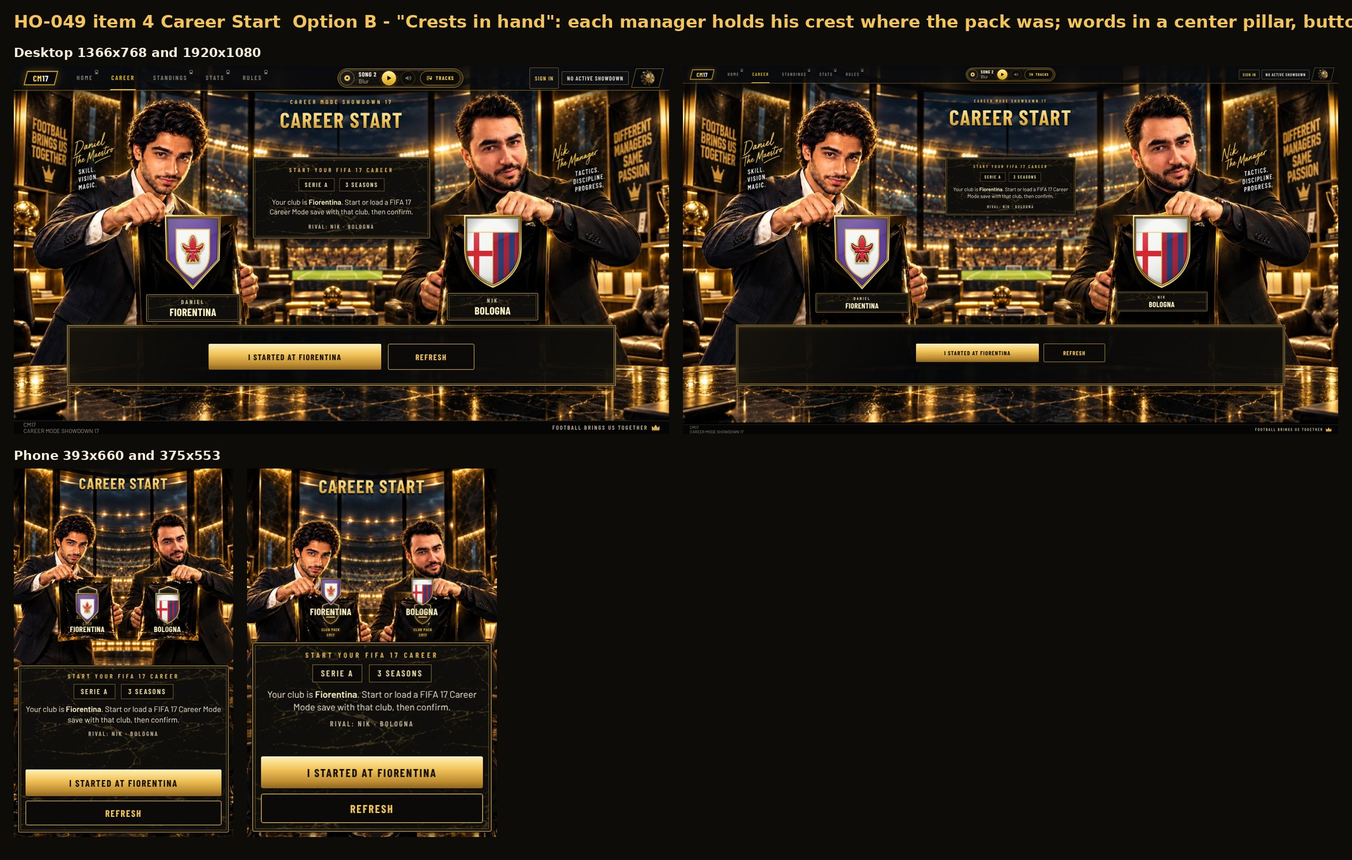
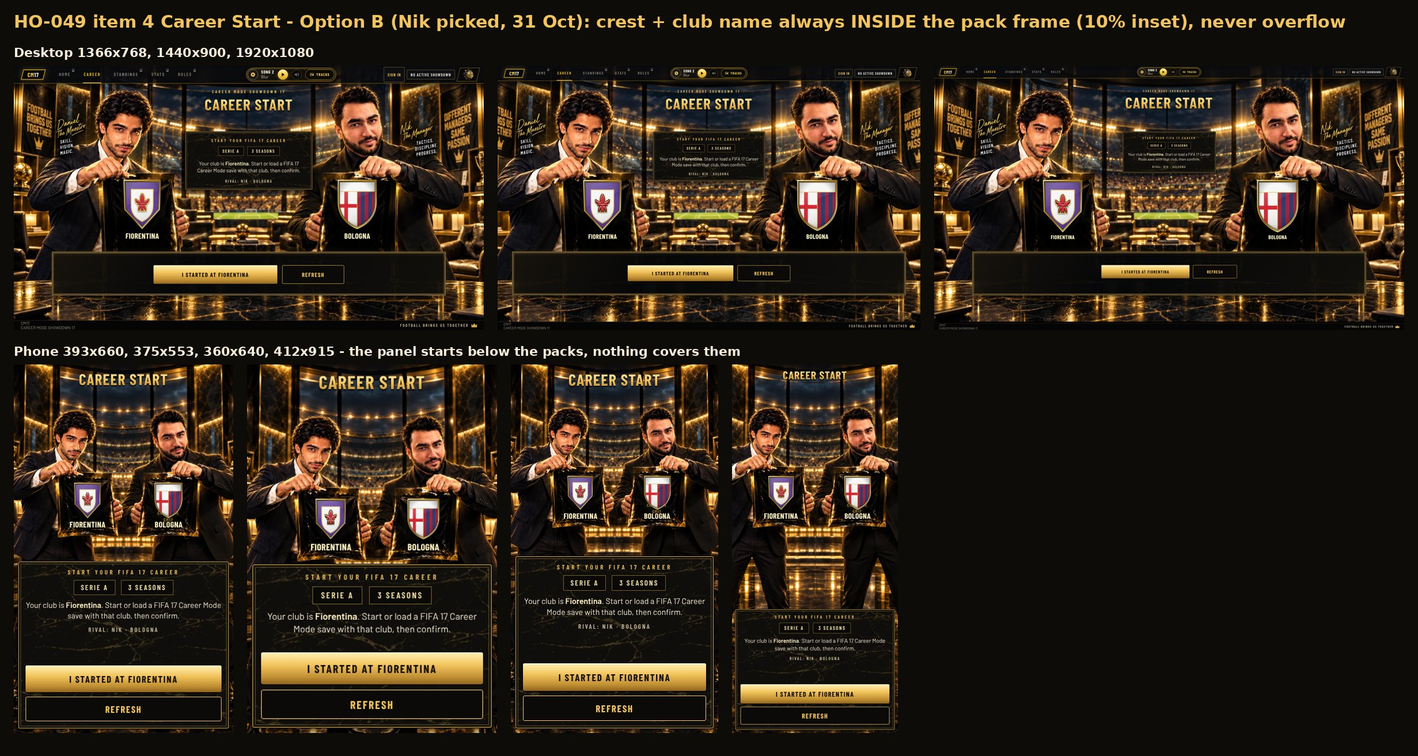
HO-049: Career Start option B (Nik's pick) with crest-in-frame rule, spec + mock
Claude-Session: https://claude.ai/code/session_01GU43Q6GqM81aZhHR5zx2Ep

diff --git a/project-documents/leads-relay/attachments/HO-049/career_start_B_mock.js b/project-documents/leads-relay/attachments/HO-049/career_start_B_mock.js
@@ -1,0 +1,85 @@
+(async()=>{
+const OPT=window.__OPT, phone=innerWidth<=900;
+const h=document.getElementById("clubWheelScreen");
+const crest=n=>getClubCrestSvg(n);
+const st=document.createElement("style");
+st.textContent=`
+#clubWheelScreen > :not(.stage):not(.csx):not(.cl-footer):not(.phoneHeroStage):not(.clPhoneScene){visibility:hidden!important}
+#clubWheelScreen .clubAnticipationDim{display:none!important}
+#clubWheelScreen .phoneHeroStage .clubPackStage{visibility:hidden!important}
+.csx{position:absolute;inset:0;z-index:30;font-family:"Barlow Condensed","Oswald",sans-serif;color:#f6eedb;pointer-events:none}
+.csx *{box-sizing:border-box}
+.csx .mar{background:#0b0a08 url("css/r78-marble-tile.webp") 0 0/256px 256px repeat;border:1px solid rgba(242,196,91,.8);border-radius:3px;box-shadow:inset 0 0 0 3px rgba(17,15,12,.9),inset 0 0 0 4px rgba(242,196,91,.3),0 0 0 1px #000,0 10px 24px rgba(0,0,0,.55)}
+.csx .kick{font:600 12px/1 "Barlow Condensed",sans-serif;letter-spacing:.34em;color:#f2c45b;text-transform:uppercase}
+.csx .ttl{font:800 30px/1.05 "Barlow Condensed",sans-serif;letter-spacing:.04em;text-transform:uppercase;background:linear-gradient(#fff1b8,#f2c45b 55%,#b98a2f);-webkit-background-clip:text;color:transparent;filter:drop-shadow(0 2px 1px #000)}
+.csx .who{font:700 12px/1 "Barlow Condensed";letter-spacing:.26em;color:#c9bc9c;text-transform:uppercase}
+.csx .club{font:800 26px/1.05 "Barlow Condensed";letter-spacing:.02em;color:#fff3c4;text-transform:uppercase}
+.csx .num{display:inline-grid;place-items:center;width:22px;height:22px;margin-right:8px;background:#f2c45b;color:#140e04;font:800 13px/1 "Barlow Condensed";vertical-align:2px}
+.csx .meta{display:flex;gap:10px;justify-content:center;flex-wrap:wrap}
+.csx .meta span{padding:6px 12px;border:1px solid rgba(242,196,91,.45);font:600 13px/1 "Barlow Condensed";letter-spacing:.16em;text-transform:uppercase;color:#f6e3a8;background:rgba(0,0,0,.35)}
+.csx .note{font:500 15px/1.35 "Barlow",sans-serif;color:#efe6cf;text-align:center}
+.csx .btn{display:flex;align-items:center;justify-content:center;min-height:48px;padding:0 22px;font:800 17px/1 "Barlow Condensed";letter-spacing:.1em;text-transform:uppercase;border-radius:3px}
+.csx .gold{color:#140e04;background:linear-gradient(180deg,#fff1b8 0%,#f2c45b 40%,#c08f33 78%,#8f6420 100%);box-shadow:inset 0 1px 0 rgba(255,255,255,.7),0 0 0 1px #000}
+.csx .line{color:#f2c45b;border:1px solid #f2c45b;background:#0b0a08}
+.csx .cr svg{width:100%;height:100%;display:block;filter:drop-shadow(0 4px 6px rgba(0,0,0,.7))}
+`;
+document.head.appendChild(st);
+const L={club:"Fiorentina",who:"Daniel"},R={club:"Bologna",who:"Nik"};
+const card=(m,n,side,size)=>`<div class="mar" style="display:flex;align-items:center;gap:14px;padding:12px 16px;${side==="r"?"flex-direction:row-reverse;text-align:right":""}"><div class="cr" style="width:${size}px;height:${size}px;flex:none">${crest(m.club)}</div><div><div class="who"><span class="num">0${n}</span>${m.who}</div><div class="club" style="margin-top:6px">${m.club}</div></div></div>`;
+const fitIn=(f,m)=>{const ix=f.w*.1,iy=f.h*.1,iw=f.w-2*ix,ih=f.h-2*iy,lab=Math.max(11,Math.min(22,ih*.16)),cs=Math.floor(Math.min(iw,ih-lab*1.5));
+ return `<div class="fit" data-f="${[f.x,f.y,f.w,f.h].map(Math.round)}" style="position:absolute;left:${f.x+ix}px;top:${f.y+iy}px;width:${iw}px;height:${ih}px;display:flex;flex-direction:column;align-items:center;justify-content:center;gap:${lab*.2}px;overflow:hidden"><div class="cr" style="width:${cs}px;height:${cs}px;flex:none">${crest(m.club)}</div><div class="club" style="font-size:${lab}px;line-height:1.1;text-shadow:0 1px 2px #000,0 0 6px #000;white-space:nowrap">${m.club}</div></div>`;};
+const x=document.createElement("div"); x.className="csx";
+const W=innerWidth,H=innerHeight;
+if(OPT==="A"&&!phone){
+ // A: one wide marble stage across the bottom, the faces and the wordmark area stay clear above it
+ x.innerHTML=`<div style="position:absolute;left:50%;top:9%;transform:translateX(-50%);text-align:center"><div class="kick">Career Mode Showdown 17</div><div class="ttl" style="font-size:${Math.round(H*.058)}px;margin-top:8px">Career Start</div></div>
+ <div class="mar" style="position:absolute;left:5.5%;right:5.5%;bottom:5.2%;padding:16px 20px 18px;display:grid;grid-template-columns:1fr 1.25fr 1fr;gap:18px;align-items:center">
+  ${card(L,1,"l",Math.round(H*.105))}
+  <div style="text-align:center"><div class="kick">Start your FIFA 17 career</div><div class="note" style="margin:8px 0 10px">Start or load a FIFA 17 Career Mode save with <b style="color:#fff3c4">Fiorentina</b>, then confirm.</div><div class="meta"><span>Serie A</span><span>3 Seasons</span></div></div>
+  ${card(R,2,"r",Math.round(H*.105))}
+  <div style="grid-column:1/-1;display:flex;gap:14px;justify-content:center"><div class="btn gold" style="min-width:330px">I started at Fiorentina</div><div class="btn line" style="min-width:170px">Refresh</div></div>
+ </div>`;
+}
+if(OPT==="B"&&!phone){
+ // B: each manager holds his club crest where the pack was; a narrow marble pillar between them holds the words and buttons
+ const pk=[...h.querySelectorAll(".clubPackStage")].map(e=>e.getBoundingClientRect());
+ const hold=(r,m)=>fitIn({x:r.x,y:r.y,w:r.width,h:r.height},m);
+ x.innerHTML=`<div style="position:absolute;left:50%;top:9%;transform:translateX(-50%);text-align:center;white-space:nowrap"><div class="kick">Career Mode Showdown 17</div><div class="ttl" style="font-size:${Math.round(H*.058)}px;margin-top:8px">Career Start</div></div>
+ ${hold(pk[0],L)}${hold(pk[1],R)}
+ <div class="mar" style="position:absolute;left:50%;transform:translateX(-50%);top:25%;width:${Math.min(380,W*.27)}px;padding:18px 18px 18px;text-align:center">
+  <div class="kick">Start your FIFA 17 career</div>
+  <div class="meta" style="margin:12px 0"><span>Serie A</span><span>3 Seasons</span></div>
+  <div class="note">Your club is <b style="color:#fff3c4">Fiorentina</b>. Start or load a FIFA 17 Career Mode save with that club, then confirm.</div>
+  <div class="kick" style="margin-top:14px;color:#c9bc9c;letter-spacing:.2em">Rival: Nik · Bologna</div>
+ </div>
+ <div style="position:absolute;left:0;right:0;top:${Math.round(H*.755)}px;display:flex;gap:14px;justify-content:center"><div class="btn gold" style="min-width:360px;min-height:54px">I started at Fiorentina</div><div class="btn line" style="min-width:180px;min-height:54px">Refresh</div></div>`;
+}
+if(phone){
+ const sc=h.querySelector(".clPhoneScene").getBoundingClientRect(), packBottom=h.getBoundingClientRect().top+924*Math.max(W,H*1179/2096)/1179, top=Math.round(OPT==="B"?Math.max(sc.bottom+4,packBottom+6):sc.bottom+4), short=H-top<290;
+ st.textContent+=`#clubWheelScreen > .clPhoneScene{visibility:visible!important}`+(OPT==="B"?`#clubWheelScreen .clPhoneScene::before,#clubWheelScreen .clPhoneScene *{display:none!important}`:``);
+ const btns=`<div style="margin-top:auto;display:grid;gap:8px"><div class="btn gold">I started at Fiorentina</div><div class="btn line" style="min-height:44px">Refresh</div></div>`;
+ if(OPT==="A"){
+  x.innerHTML=`<div style="position:absolute;left:0;right:0;top:${sc.top+12}px;text-align:center"><div class="ttl" style="font-size:28px">Career Start</div></div><div class="mar" style="position:absolute;left:8px;right:8px;top:${top}px;bottom:8px;padding:10px;display:flex;flex-direction:column;gap:8px">
+   <div style="display:grid;grid-template-columns:1fr 1fr;gap:8px">
+    ${[L,R].map((m,i)=>`<div class="mar" style="padding:8px 6px;display:flex;align-items:center;gap:8px"><div class="cr" style="width:40px;height:40px;flex:none">${crest(m.club)}</div><div><div class="who" style="font-size:10px"><span class="num" style="width:16px;height:16px;margin-right:4px;font-size:11px">0${i+1}</span>${m.who}</div><div class="club" style="font-size:17px;margin-top:3px">${m.club}</div></div></div>`).join("")}
+   </div>
+   <div style="text-align:center"><div class="kick" style="font-size:11px">Start your FIFA 17 career</div></div>
+   <div class="meta"><span>Serie A</span><span>3 Seasons</span></div>
+   <div class="note" style="font-size:14px">Start or load a FIFA 17 Career Mode save with <b style="color:#fff3c4">Fiorentina</b>, then confirm.</div>
+   ${btns}</div>`;
+ } else {
+  const bgW=Math.max(W,H*1179/2096),k=bgW/1179,ox=(W-bgW)/2,hr=h.getBoundingClientRect();const fr=(x0,x1)=>({x:ox+x0*k,y:hr.top+584*k,w:(x1-x0)*k,h:340*k});const hold=(f,m)=>fitIn(f,m);
+  x.innerHTML=`<div style="position:absolute;left:0;right:0;top:${sc.top+12}px;text-align:center"><div class="ttl" style="font-size:28px">Career Start</div></div>${hold(fr(236,556),L)}${hold(fr(668,996),R)}
+   <div class="mar" style="position:absolute;left:8px;right:8px;top:${top}px;bottom:8px;padding:12px;display:flex;flex-direction:column;gap:9px;text-align:center">
+   <div class="kick" style="font-size:11px">Start your FIFA 17 career</div>
+   <div class="meta"><span>Serie A</span><span>3 Seasons</span></div>
+   <div class="note" style="font-size:14px">Your club is <b style="color:#fff3c4">Fiorentina</b>. Start or load a FIFA 17 Career Mode save with that club, then confirm.</div>
+   ${short?"":`<div class="kick" style="color:#c9bc9c;letter-spacing:.2em;font-size:11px">Rival: Nik · Bologna</div>`}
+   ${btns}</div>`;
+ }
+}
+if(OPT==="B"&&!phone)h.querySelectorAll(".world svg polygon,.world svg polyline").forEach(e=>e.style.display="none");
+h.appendChild(x);
+await new Promise(r=>setTimeout(r,300));
+return [OPT,phone,W,H,Math.round(document.querySelector(".csx .mar:last-of-type")?.getBoundingClientRect().bottom||0),[...x.querySelectorAll(".fit")].map(e=>{const f=e.dataset.f.split(",").map(Number),c=e.querySelector(".cr").getBoundingClientRect(),t=e.querySelector(".club").getBoundingClientRect();const inside=r=>r.left>=f[0]-.5&&r.right<=f[0]+f[2]+.5&&r.top>=f[1]-.5&&r.bottom<=f[1]+f[3]+.5;return inside(c)&&inside(t)?"fits":"OVERFLOW"})];
+})()

diff --git a/project-documents/leads-relay/attachments/HO-049/CAREER_START_B_SPEC.md b/project-documents/leads-relay/attachments/HO-049/CAREER_START_B_SPEC.md
@@ -1,0 +1,18 @@
+# HO-049 item 4 · Career Start, option B (Nik picked B, 31 Oct 2026 5:23 a.m. Eastern)
+
+Picture: `HO-049_CAREER_START_OPTION_B.jpg` (this folder). Reference mock (screenshot-only, injected over the Club screen): `career_start_B_mock.js`.
+Team G builds it (product wiring stays yours); Team V reviews the shots.
+
+## Look
+- Career Start is its own stage on the Club Assignment plate (Daniel LEFT, Nik RIGHT). No dialog box over the wordmark or faces. No dim, no scrim, no flash.
+- Title "CAREER START" (gold gradient, kicker "CAREER MODE SHOWDOWN 17") where the Club title sits.
+- **Each manager holds his club's crest where the pack is:** crest (`getClubCrestSvg(club)`) + club name in the pack face, replacing the pack emblem / "CLUB PACK CM17".
+- Desktop: a narrow black-marble pillar (r78 marble tile, gold edge) between the two men: kicker "START YOUR FIFA 17 CAREER", chips League + Seasons, the product's own message, "Rival: Nik · Bologna" line. The two buttons (I STARTED AT <CLUB> gold, REFRESH gold outline) sit centred on the lower deck.
+- Phone: crests on the painted packs; one marble panel below holds kicker, chips, message, (rival line only when ≥290px is left), buttons.
+
+## NIK'S RULE: the crest ALWAYS fits inside the pack frame, never overflows
+- Frame = the pack face. Inner box = frame inset 10% each side. Crest + name live inside that box; `overflow: hidden` on the box as a safety net.
+- Name label size `clamp(11px, innerH × 0.16, 22px)`, one line, no wrap. Crest = square `floor(min(innerW, innerH − 1.5 × label))`, contain fit.
+- Desktop frame = the `.clubPackStage` rect. Phone frame = the painted pack in `ENV_CLUB_PHONE_V2.webp` (1179×2096) mapped through the plate's `center top / max(100vw, 100svh×1179/2096)`: left pack x 236–556, right 668–996, y 584–924 (plate px).
+- Phone: the marble panel starts at `max(scene bottom, pack bottom + 6px)`, so nothing covers the packs.
+- Checked by assertion at 1366×768, 1440×900, 1920×1080, 393×660, 375×553, 360×640, 412×915: crest and name inside the frame at all 7 (`fits`). Please keep the same assertion in your audit.
